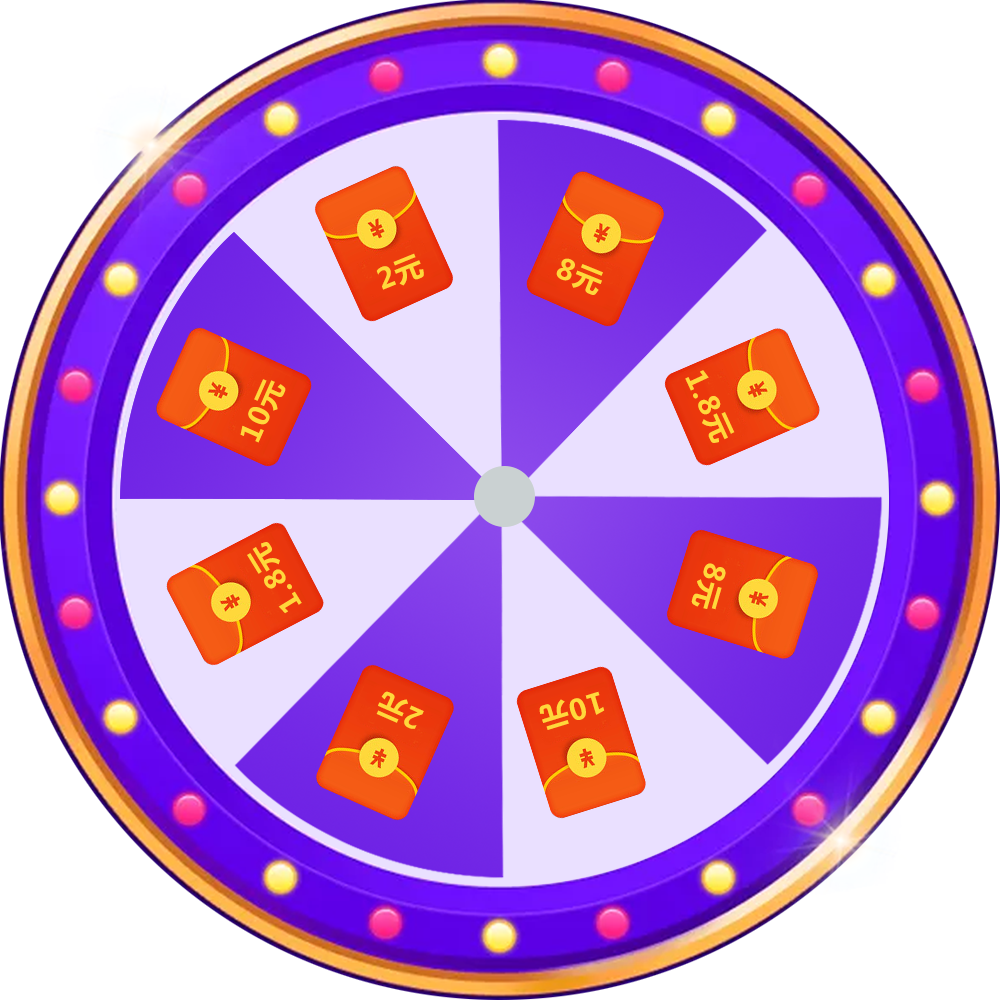
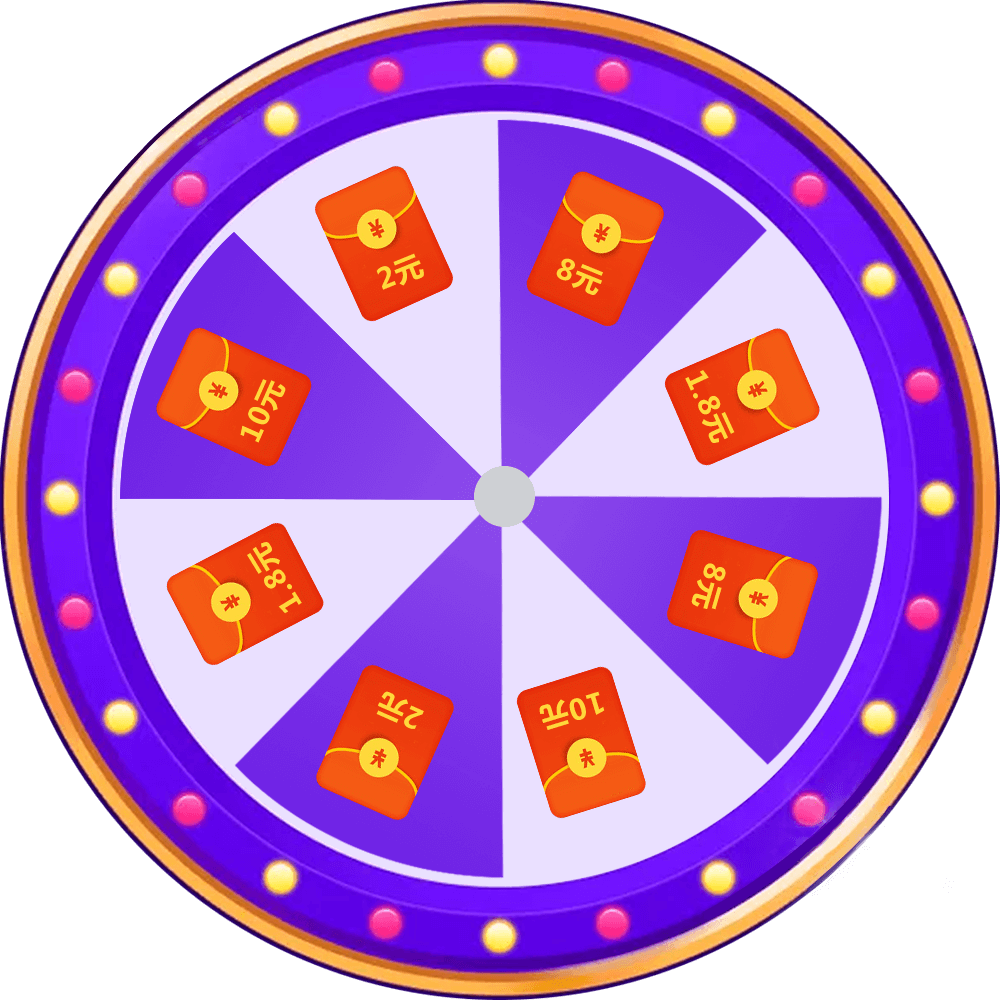
1

Changed region(s): [[0.775, 0.775, 0.899, 0.899], [0.093, 0.124, 0.217, 0.248]]

diff --git a/css/kinerLottery.css b/css/kinerLottery.css
@@ -81,8 +81,8 @@ ul {
     -moz-transform: translate(-50%, -50%);
     -ms-transform: translate(-50%, -50%);
     -o-transform: translate(-50%, -50%);
-    background: url(../imgs/lotteryContent.png)no-repeat;
-    background-size: contain;
+    /* background: url(../imgs/lotteryContent.png)no-repeat;
+    background-size: contain; */
     
 }
 
@@ -101,9 +101,9 @@ ul {
 }
 
 .box .outer img {
-    width: 77%;
+    width: 100%;
     height: auto;
-    padding: 1.5rem;
+    /* padding: 1.5rem; */
 }
 
 .box .inner {
@@ -157,7 +157,7 @@ ul {
 }
 .texttop{
     position: absolute;
-    top: 30%;
+    top: 31%;
     left: 25%;
     color: #ffffff;
     font-size: .6rem;

diff --git a/index.html b/index.html
@@ -25,7 +25,7 @@
     </p>
     <div id="box" class="box">
         <div class="outer KinerLottery KinerLotteryContent">
-            <img src="./imgs/lottery.png">
+            <img src="./imgs/lotteryContent.png">
         </div>
         <!-- 大专盘分为三种状态：活动未开始（no-start）、活动进行中(start)、活动结束(completed),可通过切换class进行切换状态，js会根据这3个class进行匹配状态 -->
         <div class="inner KinerLotteryBtn start"></div>
